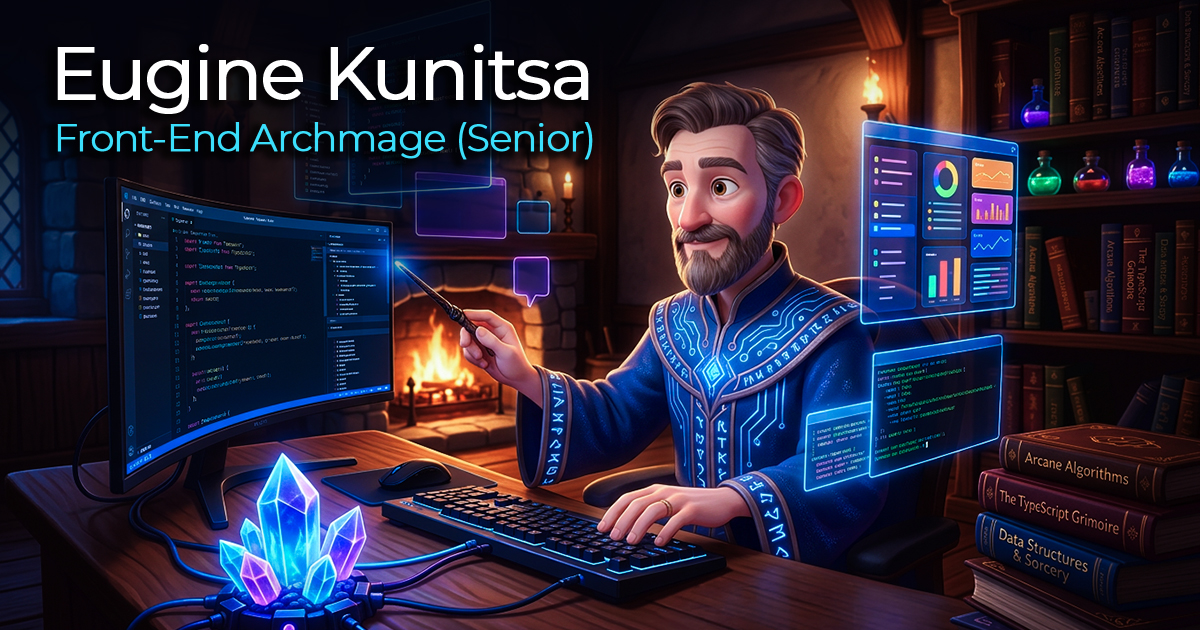
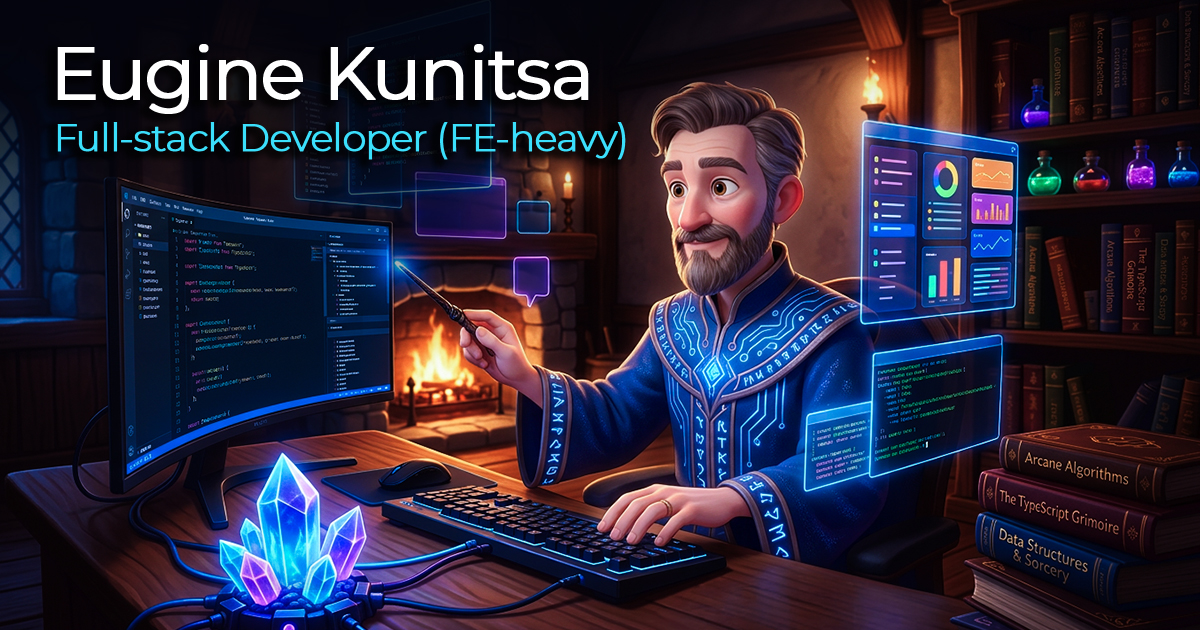
ATS

Changed region(s): [[0.0617, 0.181, 0.5242, 0.2714]]

diff --git a/src/components/pdf/CvPdf/CvPdfContacts/CvPdfContacts.tsx b/src/components/pdf/CvPdf/CvPdfContacts/CvPdfContacts.tsx
@@ -7,9 +7,21 @@ import { styles } from './CvPdfContacts.styles';
 interface CvPdfContactsProps {
     place: string;
     dashboard: DashboardI;
+    websiteUrl: string;
+    labels: {
+        email: string;
+        telegram: string;
+        linkedin: string;
+        website: string;
+    };
 }
 
-export const CvPdfContacts = ({ place, dashboard }: CvPdfContactsProps) => {
+export const CvPdfContacts = ({
+    place,
+    dashboard,
+    websiteUrl,
+    labels,
+}: CvPdfContactsProps) => {
     const contacts: PDFContactItem[] = [
         {
             icon: 'location',
@@ -20,7 +32,7 @@ export const CvPdfContacts = ({ place, dashboard }: CvPdfContactsProps) => {
     if (dashboard.email) {
         contacts.push({
             icon: 'email',
-            label: dashboard.email,
+            label: `${labels.email}: ${dashboard.email}`,
             href: `mailto:${dashboard.email}`,
         });
     }
@@ -28,7 +40,7 @@ export const CvPdfContacts = ({ place, dashboard }: CvPdfContactsProps) => {
     if (dashboard.telegram) {
         contacts.push({
             icon: 'telegram',
-            label: `@${dashboard.telegram.split('/').pop()}`,
+            label: `${labels.telegram}: @${dashboard.telegram.split('/').pop()}`,
             href: dashboard.telegram,
         });
     }
@@ -36,27 +48,31 @@ export const CvPdfContacts = ({ place, dashboard }: CvPdfContactsProps) => {
     if (dashboard.linkedin) {
         contacts.push({
             icon: 'linkedin',
-            label: 'LinkedIn',
+            label: `${labels.linkedin}: ${dashboard.linkedin}`,
             href: dashboard.linkedin,
         });
     }
 
+    contacts.push({
+        icon: 'website',
+        label: `${labels.website}: ${websiteUrl}`,
+        href: websiteUrl,
+    });
+
     return (
         <View style={styles.wrapper}>
-            <View style={styles.row}>
-                {contacts.map((item) => (
-                    <View key={item.icon} style={styles.item}>
-                        <CvPdfContactIcon name={item.icon} />
-                        {item.href ? (
-                            <Link src={item.href} style={styles.link}>
-                                <Text style={styles.text}>{item.label}</Text>
-                            </Link>
-                        ) : (
+            {contacts.map((item) => (
+                <View key={item.icon} style={styles.item}>
+                    <CvPdfContactIcon name={item.icon} />
+                    {item.href ? (
+                        <Link src={item.href} style={styles.link}>
                             <Text style={styles.text}>{item.label}</Text>
-                        )}
-                    </View>
-                ))}
-            </View>
+                        </Link>
+                    ) : (
+                        <Text style={styles.text}>{item.label}</Text>
+                    )}
+                </View>
+            ))}
         </View>
     );
 };

diff --git a/src/app/[locale]/cv.pdf/route.tsx b/src/app/[locale]/cv.pdf/route.tsx
@@ -44,6 +44,7 @@ const renderPdfSequentially = async (render: () => Promise<Buffer>) => {
 export async function GET(_request: Request, { params }: CvRouteProps) {
     try {
         const { locale } = await params;
+        const websiteUrl = new URL(process.env.SITE_URL ?? _request.url).origin;
         const mainInformation = await getMainInformation(locale);
         const dashboard = await getDashboard();
         const about = await getAboutList(locale);
@@ -74,6 +75,7 @@ export async function GET(_request: Request, { params }: CvRouteProps) {
             renderToBuffer(
                 <CvPdf
                     locale={locale}
+                    websiteUrl={websiteUrl}
                     mainInformation={mainInformation}
                     dashboard={dashboard}
                     about={about}
@@ -92,6 +94,10 @@ export async function GET(_request: Request, { params }: CvRouteProps) {
                         technologies: t('technologies'),
                         languages: t('languages'),
                         now: t('now'),
+                        email: t('email'),
+                        telegram: t('telegram'),
+                        linkedin: t('linkedin'),
+                        website: t('website'),
                     }}
                 />,
             ),

diff --git a/src/components/pdf/CvPdf/CvPdf.tsx b/src/components/pdf/CvPdf/CvPdf.tsx
@@ -22,6 +22,7 @@ import { CvPdfSummary } from './CvPdfSummary/CvPdfSummary';
 
 interface CvPdfProps {
     locale: Locale;
+    websiteUrl: string;
     mainInformation: MainInformationI;
     dashboard: DashboardI;
     about: AboutDataListI[];
@@ -40,11 +41,16 @@ interface CvPdfProps {
         technologies: string;
         languages: string;
         now: string;
+        email: string;
+        telegram: string;
+        linkedin: string;
+        website: string;
     };
 }
 
 export const CvPdf = ({
     locale,
+    websiteUrl,
     mainInformation,
     dashboard,
     about,
@@ -71,6 +77,13 @@ export const CvPdf = ({
                     <CvPdfContacts
                         place={mainInformation.place}
                         dashboard={dashboard}
+                        websiteUrl={websiteUrl}
+                        labels={{
+                            email: t.email,
+                            telegram: t.telegram,
+                            linkedin: t.linkedin,
+                            website: t.website,
+                        }}
                     />
                     <CvPdfSocial dashboard={dashboard} />
                 </View>

diff --git a/src/components/pdf/CvPdf/CvPdfContacts/CvPdfContactIcon.tsx b/src/components/pdf/CvPdf/CvPdfContacts/CvPdfContactIcon.tsx
@@ -47,6 +47,17 @@ const contactIcons: Record<PDFContactIconName, PDFContactIcon> = {
             },
         ],
     },
+    website: {
+        viewBox: '0 0 24 24',
+        paths: [
+            {
+                d: 'M12 21a9 9 0 1 0 0-18 9 9 0 0 0 0 18ZM3.6 9h16.8M3.6 15h16.8M12 3c2.2 2.5 3.3 5.5 3.3 9s-1.1 6.5-3.3 9c-2.2-2.5-3.3-5.5-3.3-9S9.8 5.5 12 3Z',
+                fill: 'none',
+                stroke: '#000',
+                strokeWidth: 1,
+            },
+        ],
+    },
 };
 
 export const CvPdfContactIcon = ({ name }: { name: PDFContactIconName }) => {

diff --git a/src/components/pdf/CvPdf/CvPdfContacts/CvPdfContacts.styles.ts b/src/components/pdf/CvPdf/CvPdfContacts/CvPdfContacts.styles.ts
@@ -3,14 +3,11 @@ import { StyleSheet } from '@react-pdf/renderer';
 export const styles = StyleSheet.create({
     wrapper: {
         marginTop: 10,
+        flexDirection: 'column',
+        alignItems: 'flex-start',
+        gap: 7,
     },
-    row: {
-        flexDirection: 'row',
-        flexWrap: 'wrap',
-        alignItems: 'center',
-        columnGap: 14,
-        rowGap: 5,
-    },
+
     item: {
         flexDirection: 'row',
         alignItems: 'center',

diff --git a/src/types/types.tsx b/src/types/types.tsx
@@ -108,11 +108,18 @@ export interface PDFContactItem {
     href?: string;
 }
 
-export type PDFContactIconName = 'location' | 'email' | 'telegram' | 'linkedin';
+export type PDFContactIconName =
+    | 'location'
+    | 'email'
+    | 'telegram'
+    | 'linkedin'
+    | 'website';
 
 export interface PDFContactPath {
     d: string;
     fill: string;
+    stroke?: string;
+    strokeWidth?: number;
 }
 
 export interface PDFContactIcon {
